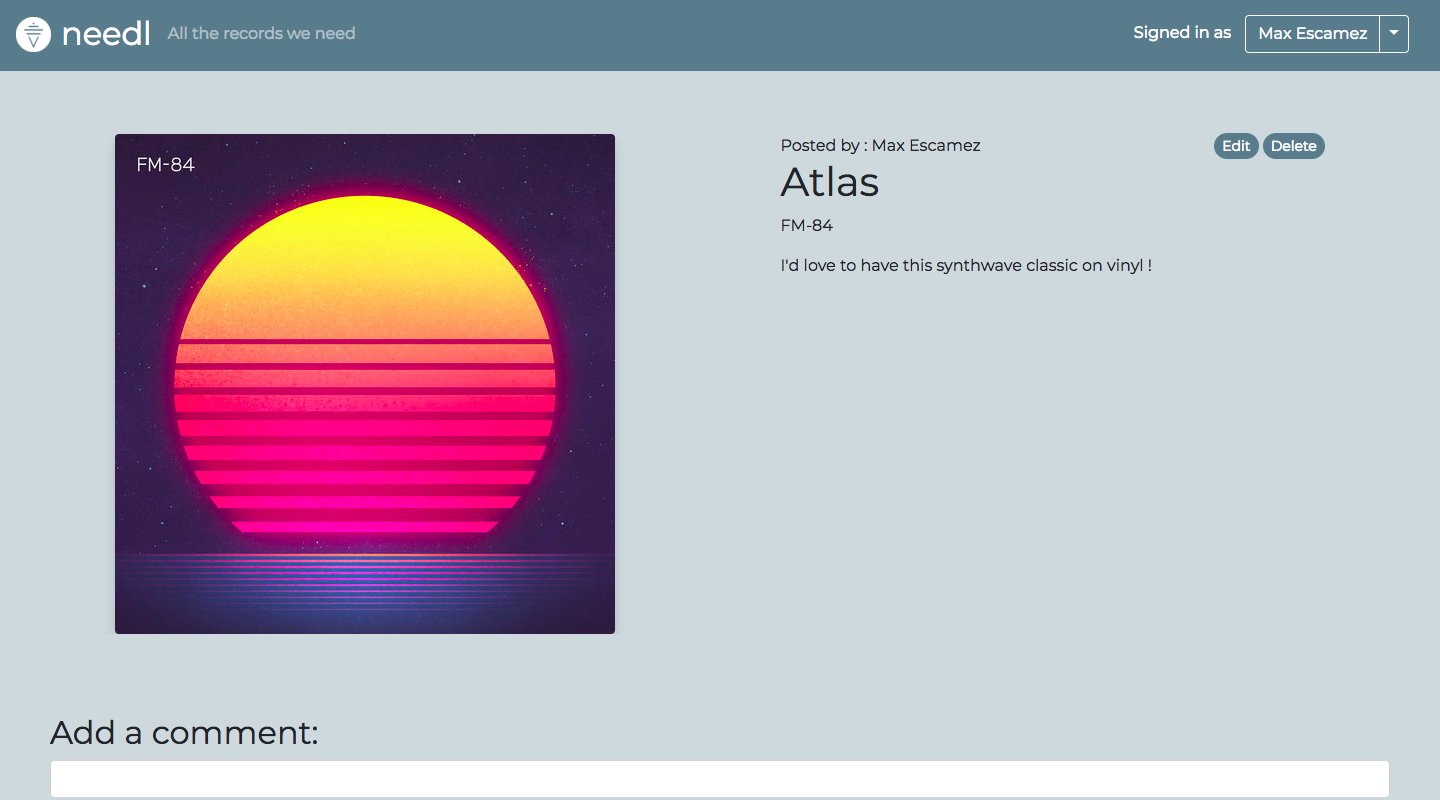
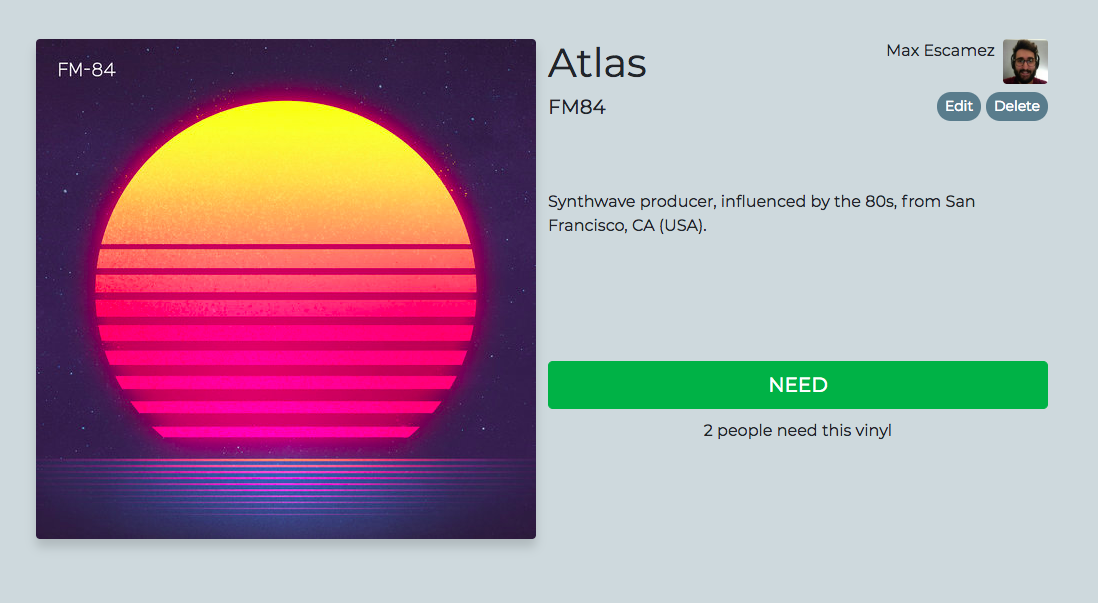
Added Discogs API

diff --git a/app/controllers/vinyls_controller.rb b/app/controllers/vinyls_controller.rb
@@ -22,10 +22,12 @@ class VinylsController < ApplicationController
   def show
     @vinyl = Vinyl.find(params[:id])
     @comments = @vinyl.comments.hash_tree(limit_depth: 2)
+    @wrapper = Discogs::Wrapper.new("needl", user_token: "ZjgMvwfSVnQhbsgXnhulvQvBHmqBbtrWtrARWUjD")
   end
 
   def new
     @vinyl = Vinyl.new
+
   end
 
   def edit

diff --git a/README.md b/README.md
@@ -22,8 +22,9 @@ You can directly access the album and artist names of the vinyl without actually
 ![Alt Text](https://github.com/maxime-escamez/needl/blob/master/images/animation.gif)
 <br />
 <br />
+We've also added filters to display certain types of vinyls (by date and number of votes).
 ```diff
--Later on, we'll add filters to display only certain types of vinyls and also a search function. This is coming very soon !
+-A full text search function is being worked on
 ```
 ## Login
 
@@ -51,14 +52,15 @@ Right after you created your vinyl or when clicking on one from the home page, y
 <br />
 ![picture alt](images/show.png) <br />
 <br />
-Here you will be able to back this vinyl (meaning you want it pressed too).
-You can also comment on this vinyl right below.
-```diff
--Comments will also have replies. Right now this is WOP.
-```
+Here you are able to back this vinyl (meaning you want it pressed too). You also have informations taken 
+directly from the Discogs API.
+You can also comment on this vinyl right below. Comments now have nested replies :<br />
+<br />
+![picture alt](images/comment.png) <br />
+<br />
 
 
 ## Profile Page
 ```diff
--This is completely WOP, but basically you will be able to access the vinyls you submitted and the ones you backed.
+-The profile page is WIP but coming very soon !
 ```
